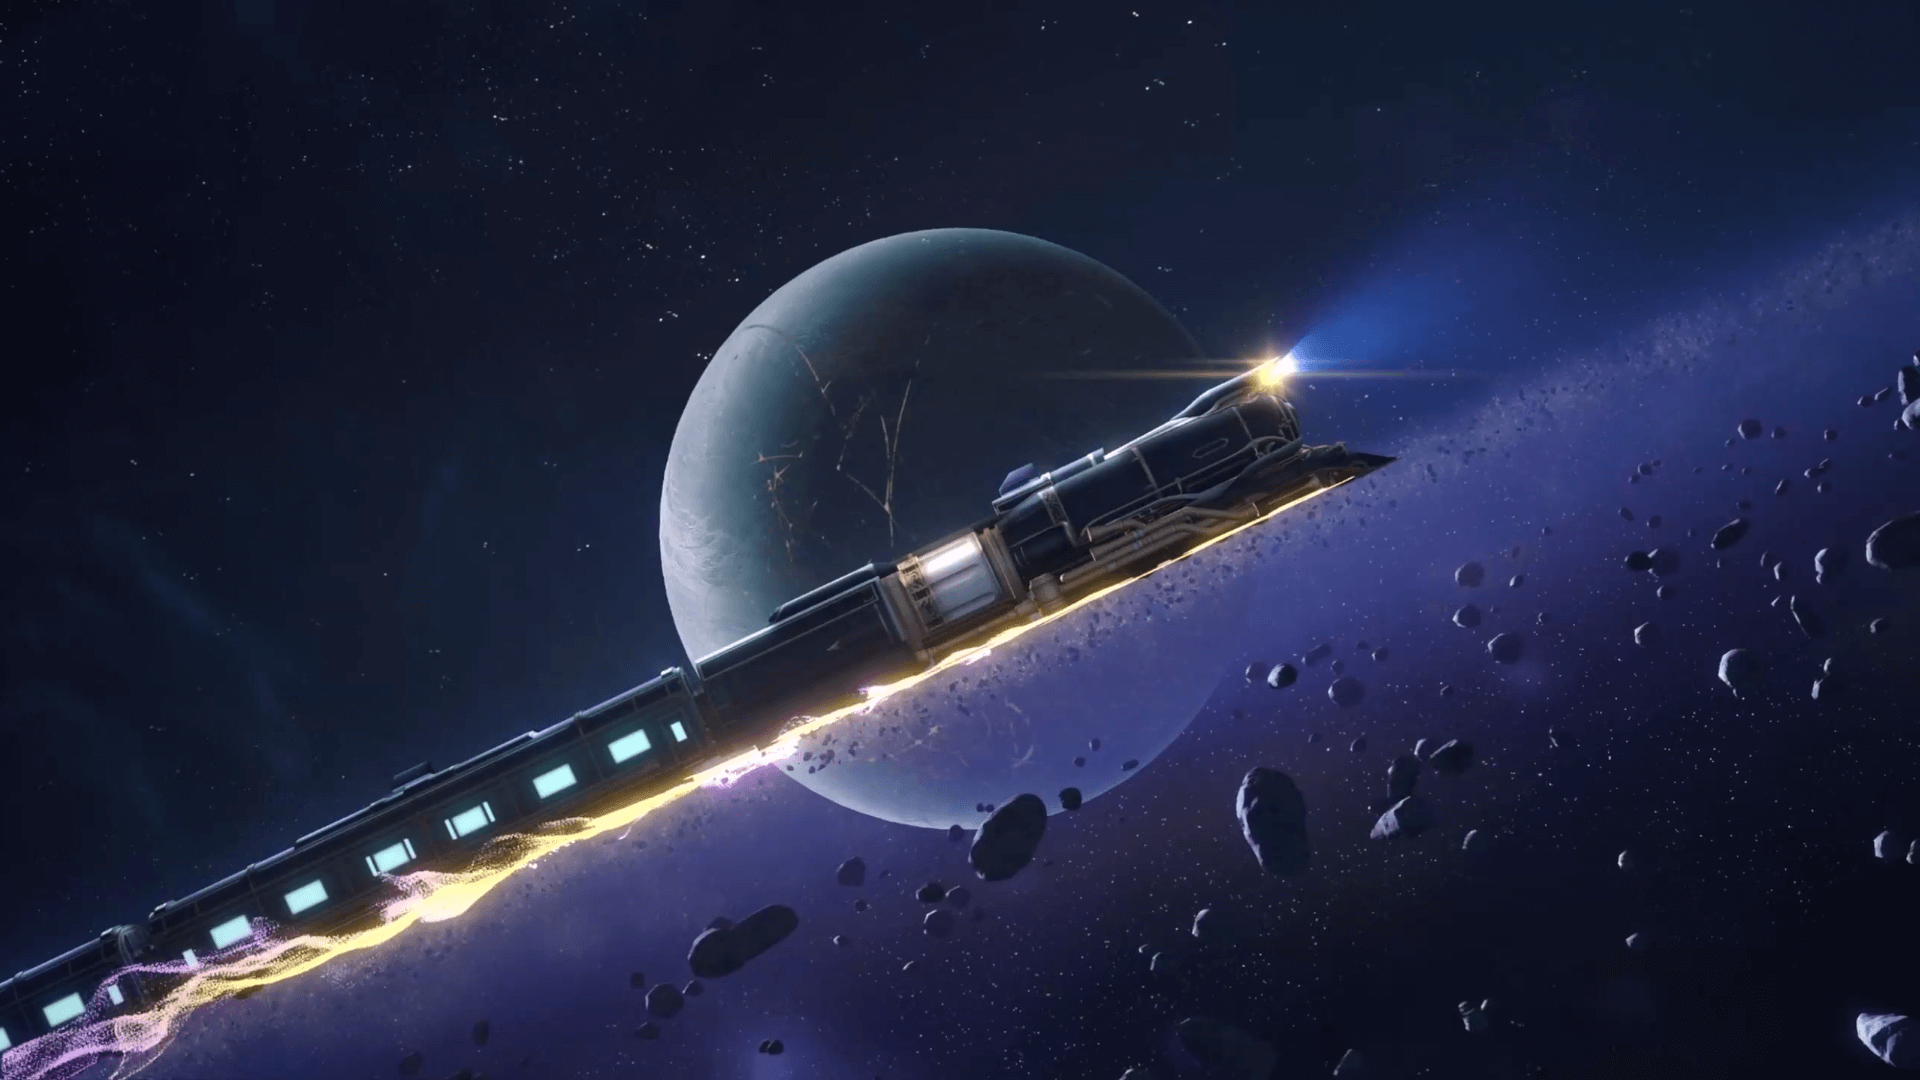
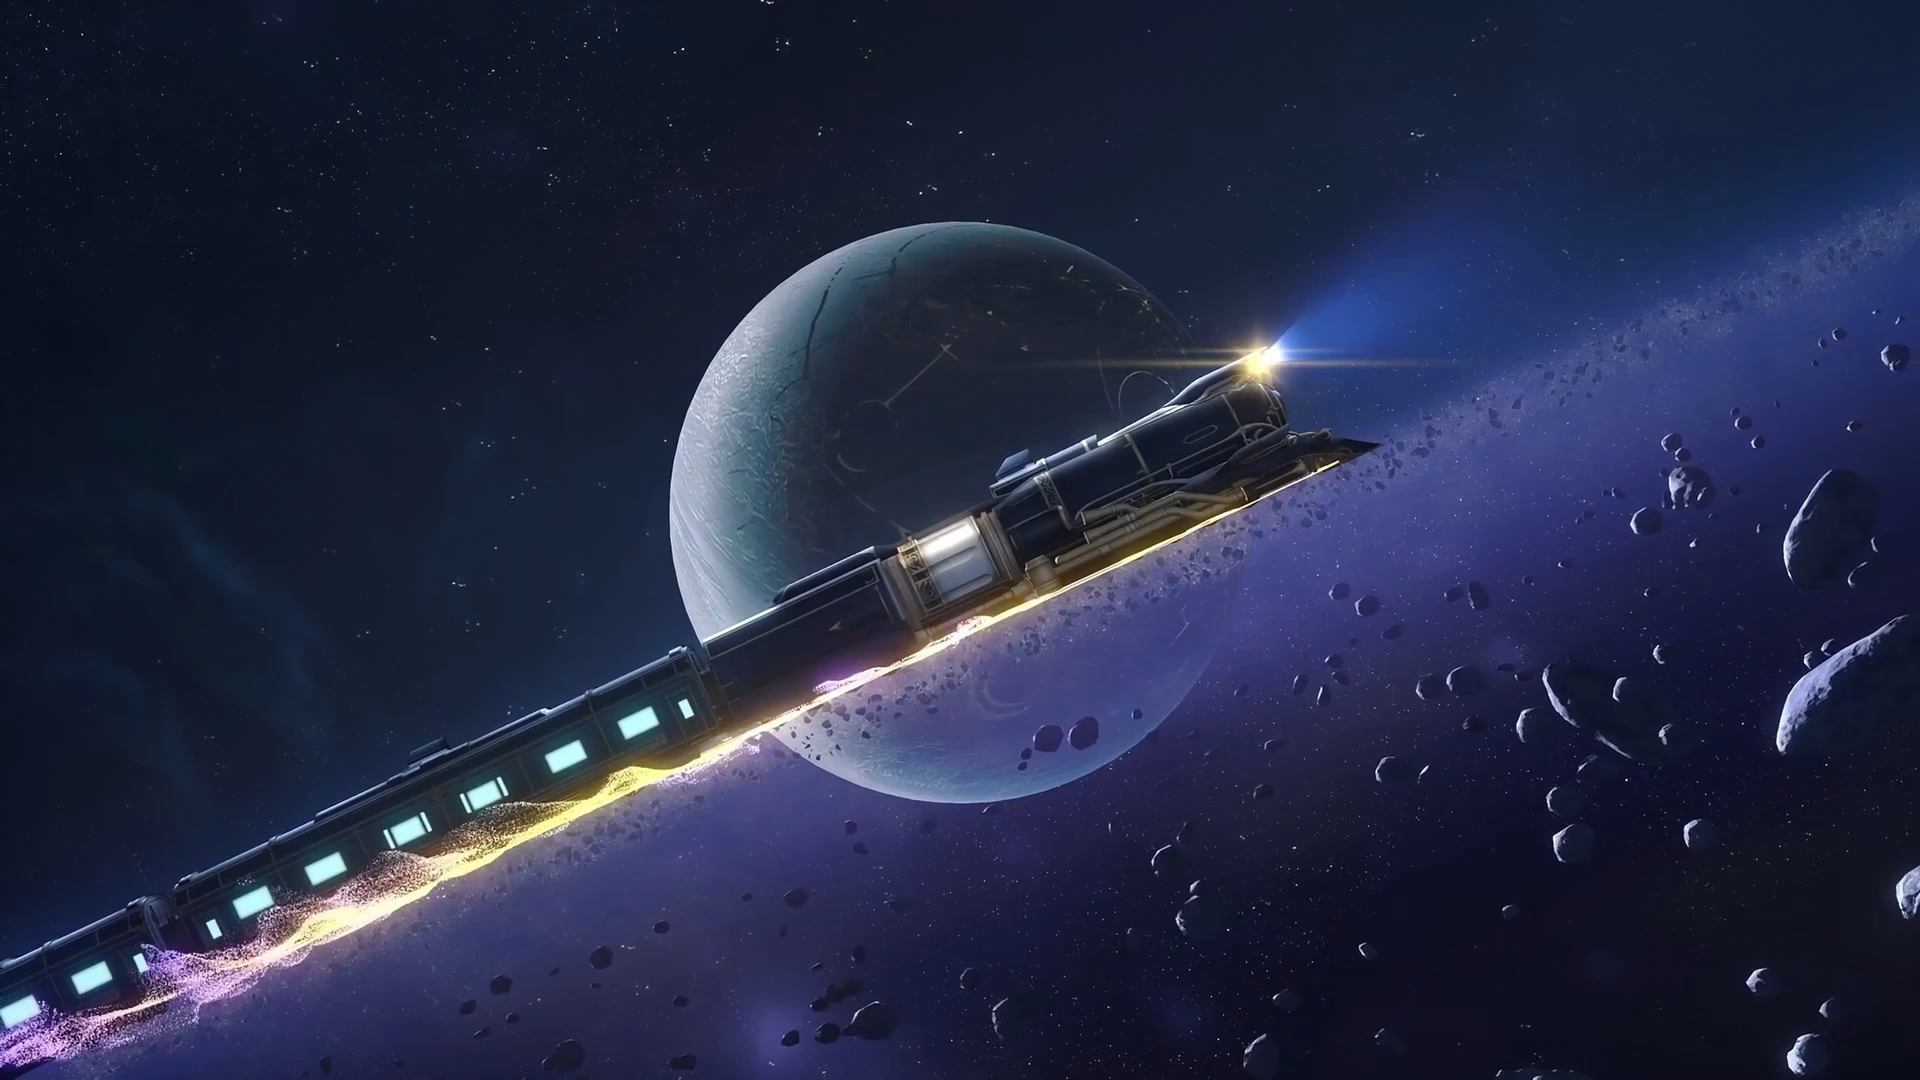
improve: dark&light mode loading png

diff --git a/src/_components/video-background.tsx b/src/_components/video-background.tsx
@@ -1,10 +1,12 @@
 'use client';
 
 import { useTheme } from 'next-themes';
-import Image from 'next/image';
 import React, { useEffect, useState } from 'react';
 
 const VideoBackground = () => {
+    const { theme } = useTheme();
+    const [videoUrl, setVideoUrl] = useState('');
+
     // const getBackgroundVideo = unstable_cache(
     //     async () => {
     //         const result = await fetchApi(async (c) =>
@@ -20,32 +22,20 @@ const VideoBackground = () => {
     //     { revalidate: 60 * 60 * 24 },
     // );
 
-    const { theme, setTheme } = useTheme();
-    const [videoUrl, setVideoUrl] = useState('');
     // if (process.env.NODE_ENV === 'production') {
     //     videoUrl = await getBackgroundVideo();
     // }
 
-    // const imgUrl = '/xqtd.png';
-    const [imgUrl, setImgUrl] = useState<string | null>(null);
-
     useEffect(() => {
-        setVideoUrl(theme === 'dark' ? '/test/xqtd.mp4' : '/test/xl.mp4');
-        setImgUrl(theme === 'dark' ? '/xqtd.png' : '/xl.png');
+        setVideoUrl(theme === 'dark' ? '/test/xqtd.webm' : '/test/xl.webm');
     }, [theme]);
 
     return (
         <div className="absolute inset-0 z-[-1] overflow-hidden w-full h-full min-h-full">
-            {imgUrl && (
-                <Image
-                    src={imgUrl}
-                    alt="xqtd.png"
-                    className="fixed top-0 left-0 object-cover h-full w-full z-[-2]"
-                    priority
-                    width={1920}
-                    height={1080}
-                ></Image>
-            )}
+            <div
+                className="fixed top-0 left-0 object-cover h-full w-full z-[-2] bg-[url('/xl.png')] dark:bg-[url('/xqtd.png')] bg-cover bg-center"
+                aria-hidden="true"
+            />
             {videoUrl && (
                 <video
                     key={videoUrl} // 添加key属性，当videoUrl改变时强制重新创建视频元素
